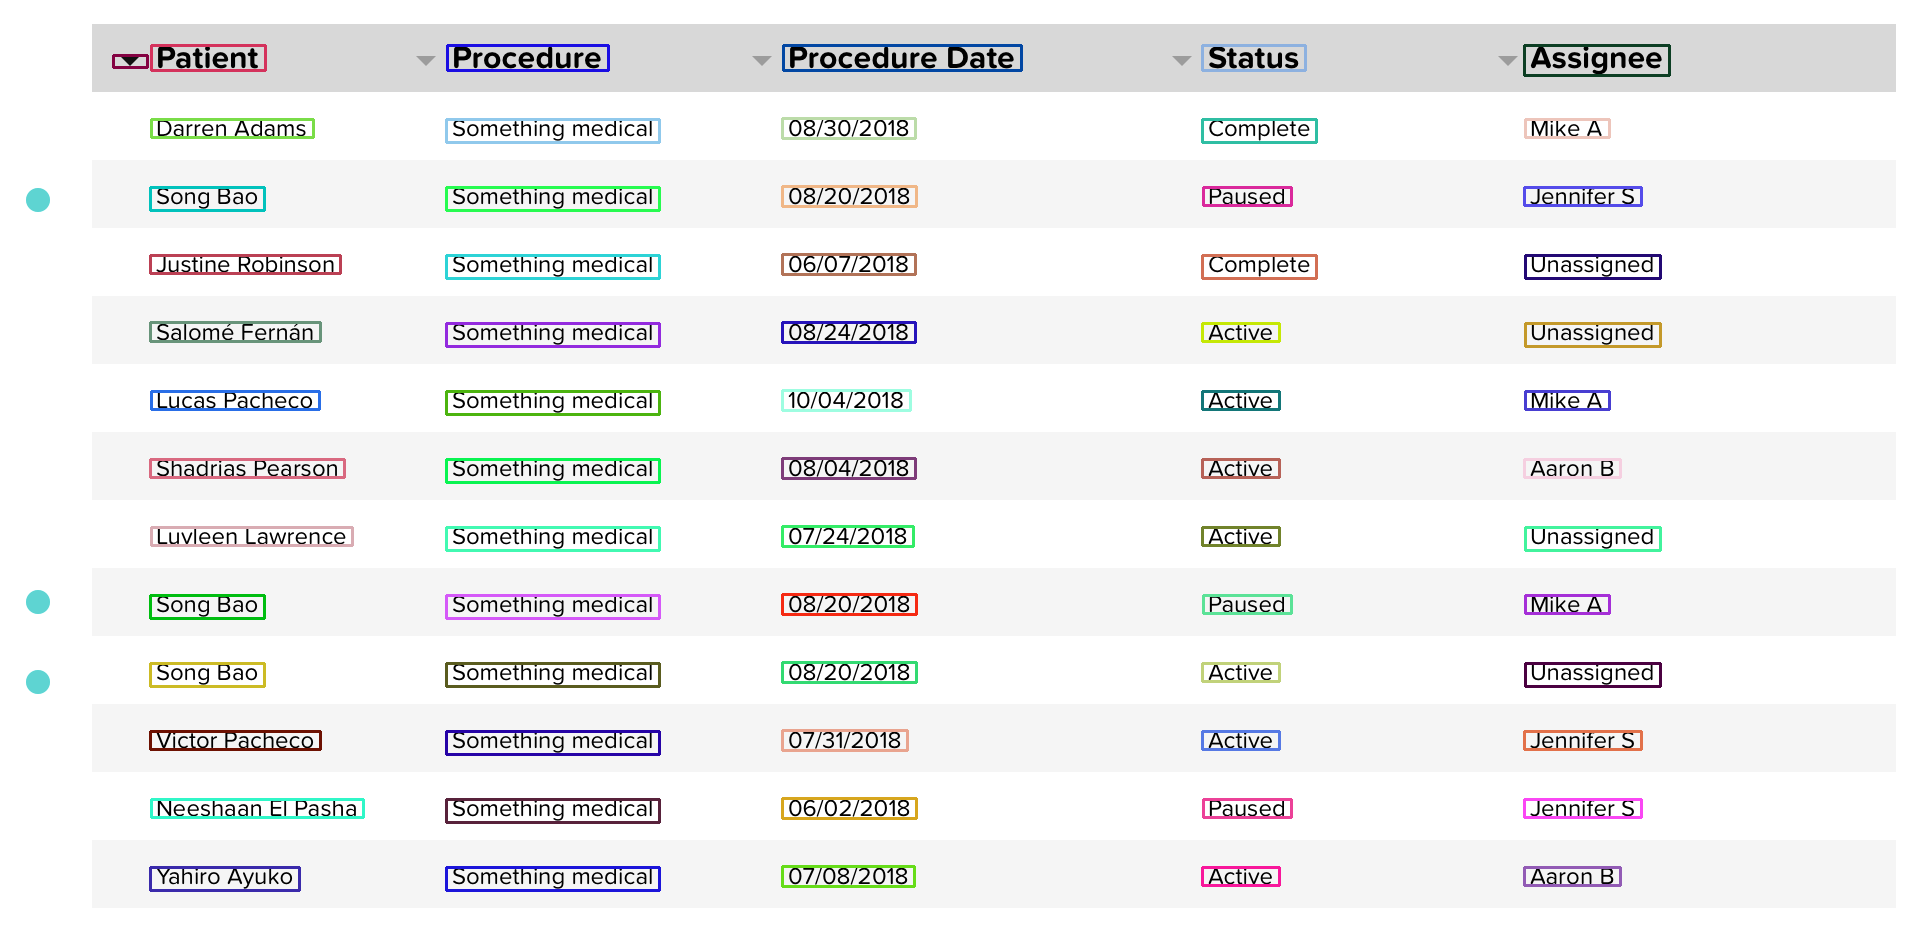
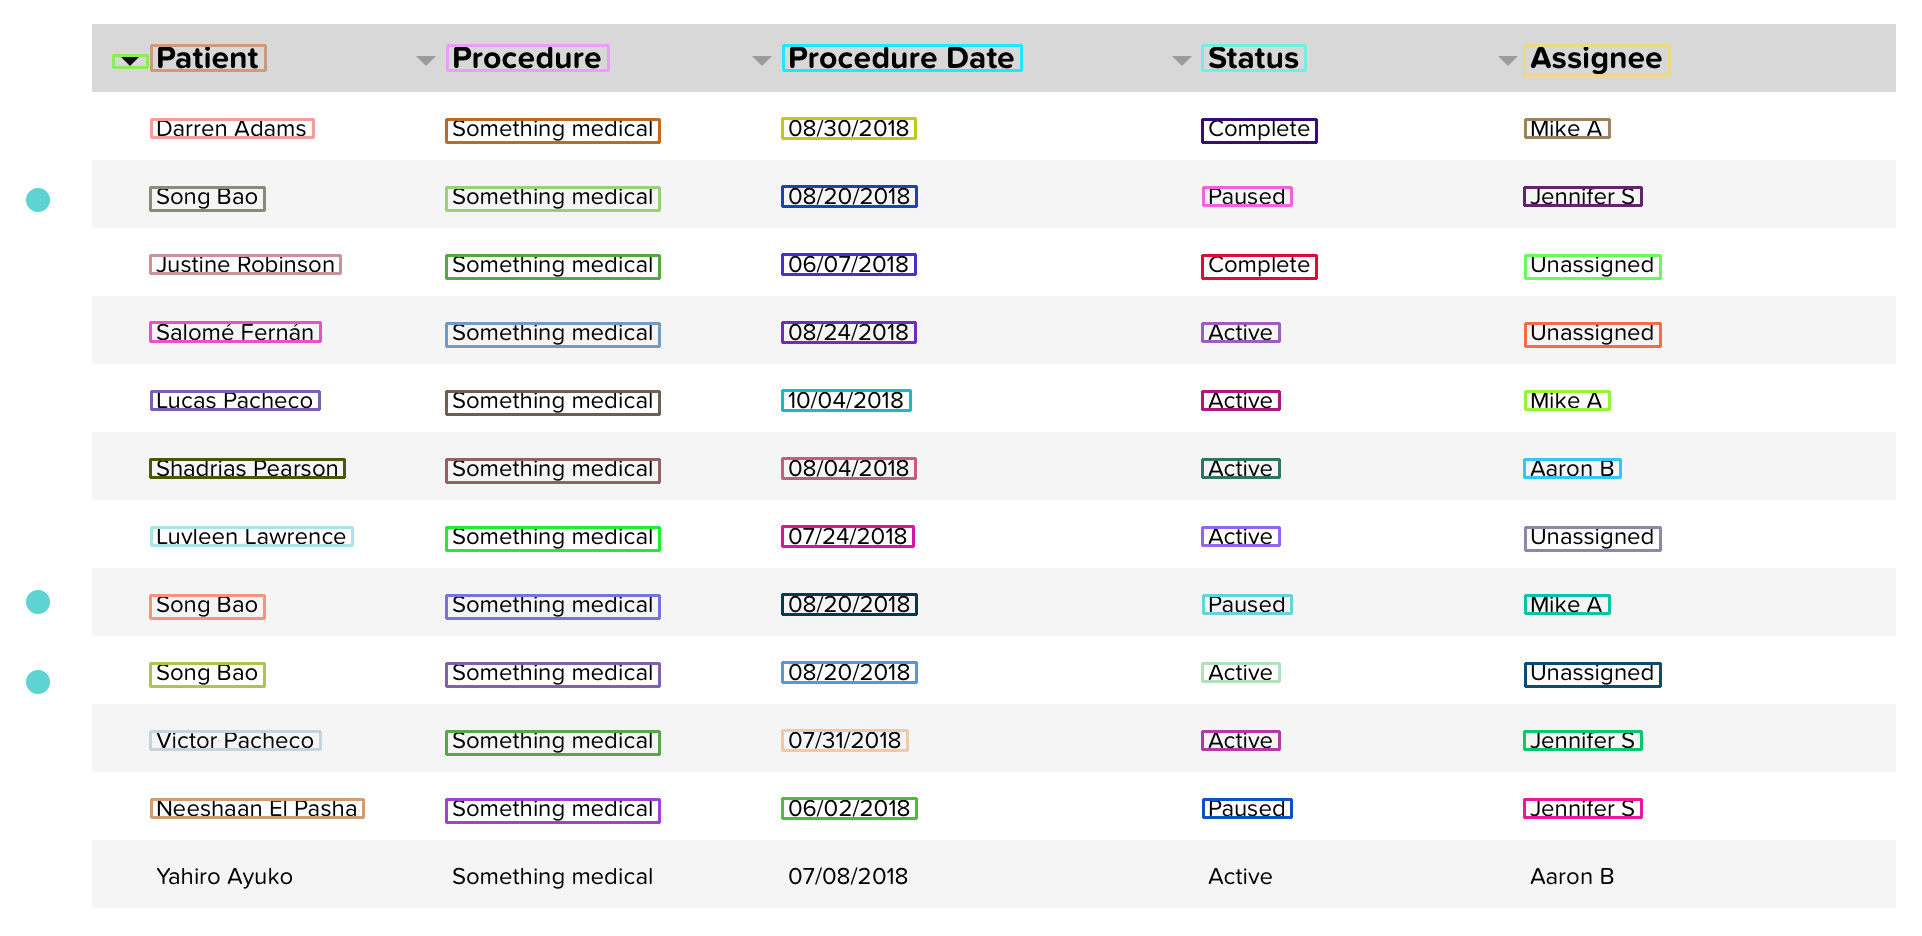
check

diff --git a/tabular_image-to-csv.py b/tabular_image-to-csv.py
@@ -85,27 +85,18 @@ if __name__ == '__main__':
 
     # ---Image_Path---
     path = args.img_path
+    # path = "images/patient.png"
 
     img, genrator_image, cnts = preprocessing_non_tabular(path)
     if len(cnts) < 8:
         img, genrator_image, cnts = preprocessing_tabular(path)
 
-    dummy_image = img.copy()
     row_list = list()
     old_y = 0
     single_row = list()
     for idx, cnt in enumerate(cnts):
-        area = cv2.contourArea(cnt)
 
         x, y, w, h = cv2.boundingRect(cnt)
-
-        ## Different color for each row
-        r = random.randint(0, 255)
-        g = random.randint(0, 255)
-        b = random.randint(0, 255)
-
-        # Drawing box
-        cv2.rectangle(dummy_image, (x, y), (x + w, y + h), (b, g, r), 2)
         if idx == 0:
             single_row.append([x, y, w, h])
         else:
@@ -117,11 +108,8 @@ if __name__ == '__main__':
                 single_row.append([x, y, w, h])
         old_y = y
 
-    cv2.imwrite("processed_image/show_box.png", dummy_image)
-    # cv2.imshow('final', dummy_image)
-    # cv2.waitKey(0)
-
     # color = (np.random.random(size=3) * 256)
+    dummy_image = img.copy()
 
     all_text = list()
     row_count = list()
@@ -130,6 +118,13 @@ if __name__ == '__main__':
         row_text = list()
         for one_box in row_boxes:
             x, y, w, h = one_box
+            ## Different color for each row
+            r = random.randint(0, 255)
+            g = random.randint(0, 255)
+            b = random.randint(0, 255)
+
+            # Drawing box
+            cv2.rectangle(dummy_image, (x, y), (x + w, y + h), (b, g, r), 2)
             #########################################################################################
 
             ## Kraken Text Extraction
@@ -161,8 +156,12 @@ if __name__ == '__main__':
         all_text.append(row_text)
         print("======================================================================")
     print(all_text)
-    updated_text_rows = list()
 
+    cv2.imwrite("processed_image/show_box.png", dummy_image)
+    # cv2.imshow('final', dummy_image)
+    # cv2.waitKey(0)
+
+    updated_text_rows = list()
     columns = max(set(row_count), key=row_count.count)
 
     for rows in all_text:
